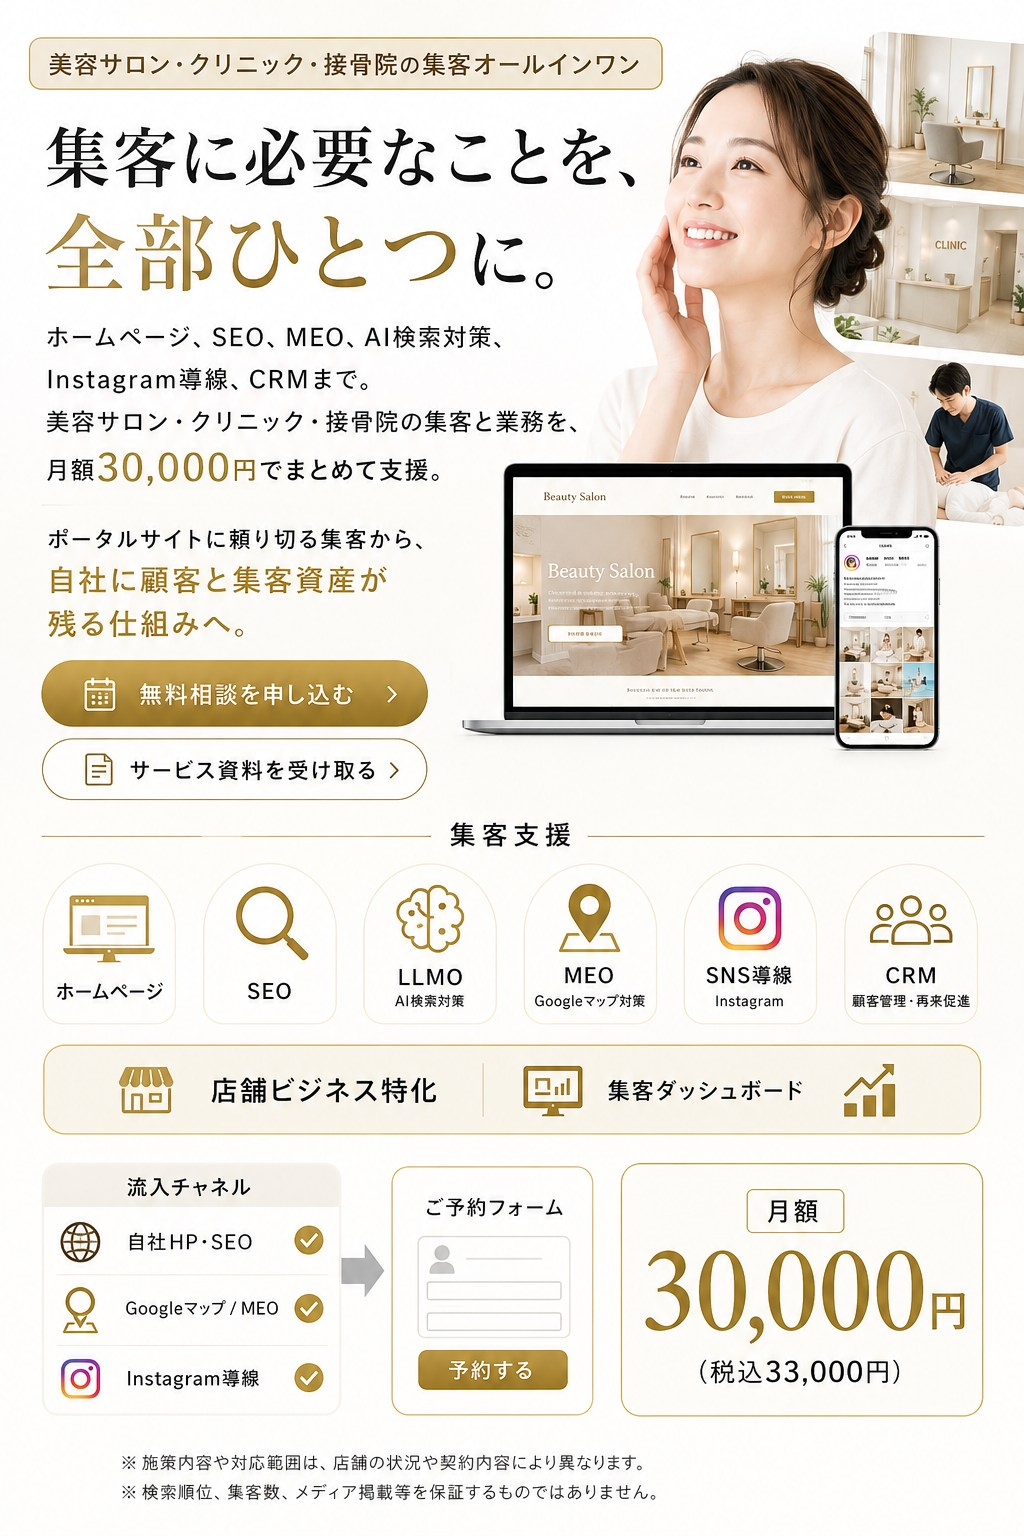
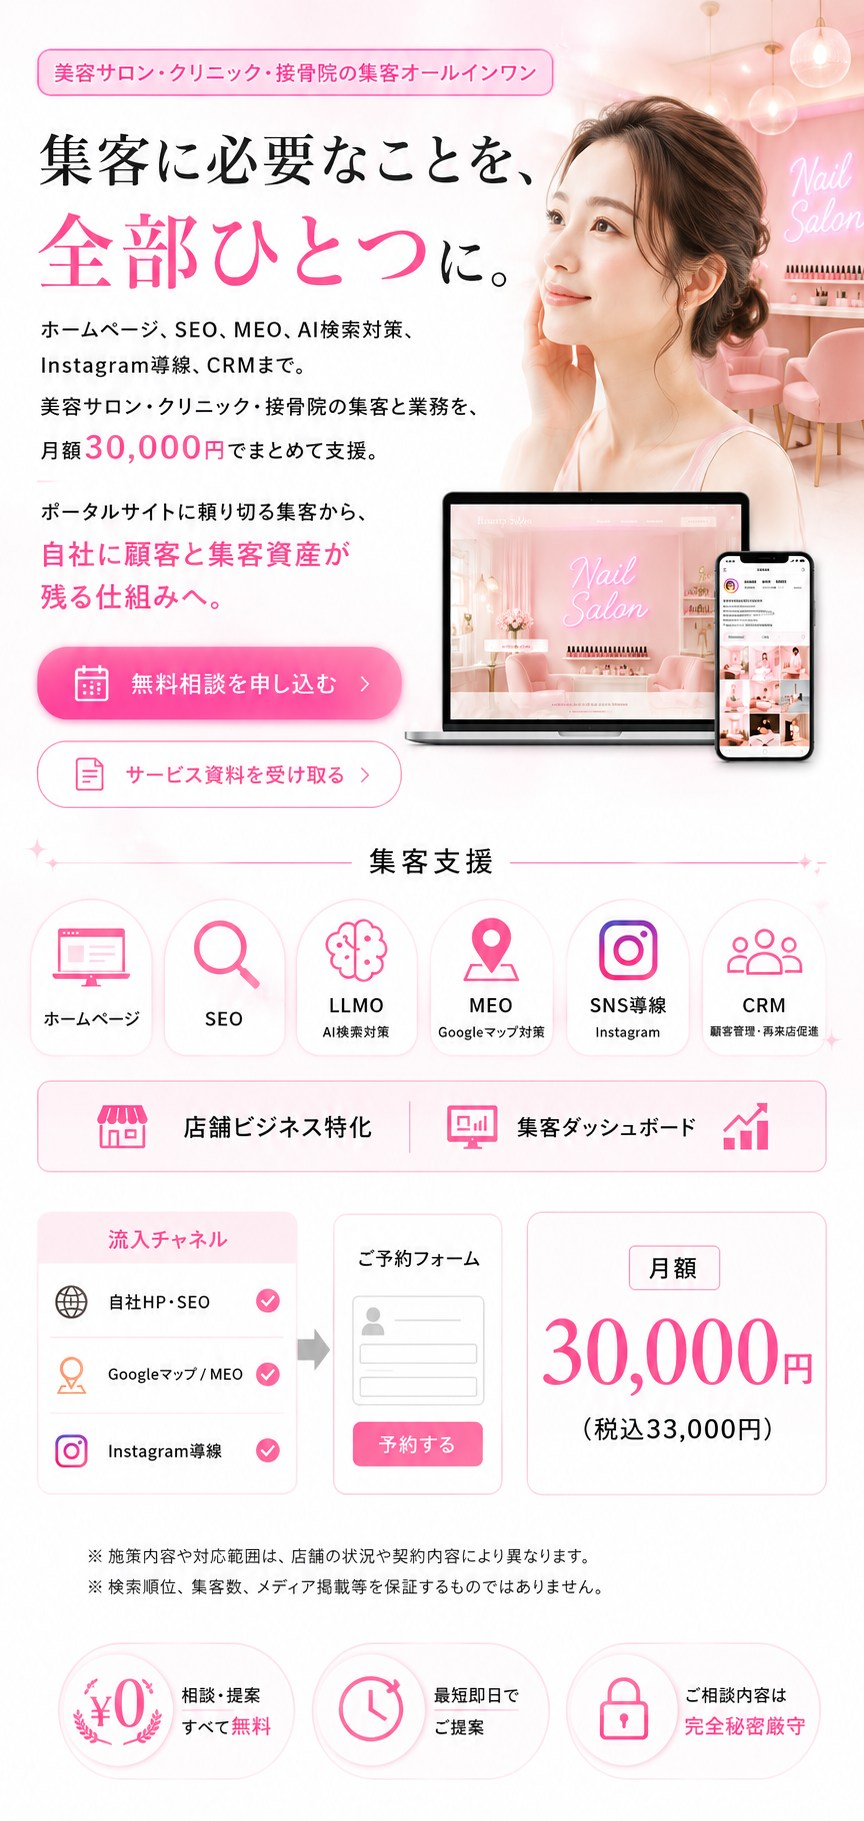
feat: FV/Aboutをピンク縦型の新デザイン画像に差し替え（FVボタン位置を再計測・About縦型を中央max600に調整）

diff --git a/src/components/sections/About.tsx b/src/components/sections/About.tsx
@@ -10,7 +10,7 @@ import { Reveal } from '@/components/ui/Reveal';
  * 完成デザイン画像を主役に表示。見出し・5ステップ・まとめ文は
  * SEO / アクセシビリティ用に sr-only でテキスト保持。
  *
- * 画像差し替え手順：src/assets/about.jpg（1774×887・2:1）を同名で置き換え。
+ * 画像差し替え手順：src/assets/about.jpg（縦型・約0.47）を同名で置き換え。
  * 5ステップの文言は src/config/content.ts の `journeySteps` を編集。
  */
 export function About() {
@@ -40,8 +40,8 @@ export function About() {
             src={aboutImg}
             alt="BEAUTY ALL IN のサービス全体像（作る→見つけてもらう→予約につなげる→顧客を管理する→再来店につなげるの5ステップ）イメージ"
             placeholder="blur"
-            sizes="(max-width: 1120px) 100vw, 1120px"
-            className="h-auto w-full rounded-2xl shadow-card ring-1 ring-charcoal/5"
+            sizes="(max-width: 600px) 100vw, 600px"
+            className="mx-auto h-auto w-full max-w-[600px] rounded-2xl shadow-card ring-1 ring-charcoal/5"
           />
         </Reveal>
       </div>

diff --git a/src/components/sections/Hero.tsx b/src/components/sections/Hero.tsx
@@ -21,7 +21,7 @@ import { trackEvent } from '@/lib/gtag';
  * JSが失敗しても必ず表示状態で着地）。Framerは「失敗しても画像が見える」
  * パララックスにのみ使用。画像内の焼き込みCTAには透明の実クリック領域を重ね計測維持。
  *
- * 画像差し替え手順：src/assets/hero-fv.jpg（1024×1536・2:3）を同名で置き換え。
+ * 画像差し替え手順：src/assets/hero-fv.jpg（縦型・約0.47）を同名で置き換え。
  * ボタン位置が変わる場合は overlay の top/left/width/height（％）を調整。
  */
 export function Hero() {
@@ -88,7 +88,7 @@ export function Hero() {
             href="#contact"
             onClick={() => trackEvent('hero_consultation_click')}
             aria-label={siteConfig.cta.primary}
-            className="absolute left-[3%] top-[41.5%] block h-[5.6%] w-[40%] rounded-full focus-visible:ring-2 focus-visible:ring-gold focus-visible:ring-offset-2"
+            className="absolute left-[4%] top-[34.8%] block h-[5.2%] w-[44%] rounded-full focus-visible:ring-2 focus-visible:ring-gold focus-visible:ring-offset-2"
           >
             <span
               aria-hidden
@@ -102,7 +102,7 @@ export function Hero() {
             href="#contact"
             onClick={() => trackEvent('hero_document_click')}
             aria-label={siteConfig.cta.secondary}
-            className="absolute left-[3%] top-[47.6%] block h-[4.9%] w-[39%] rounded-full focus-visible:ring-2 focus-visible:ring-gold focus-visible:ring-offset-2"
+            className="absolute left-[4%] top-[40.4%] block h-[4.6%] w-[43%] rounded-full focus-visible:ring-2 focus-visible:ring-gold focus-visible:ring-offset-2"
           >
             <span className="sr-only">{siteConfig.cta.secondary}</span>
           </a>